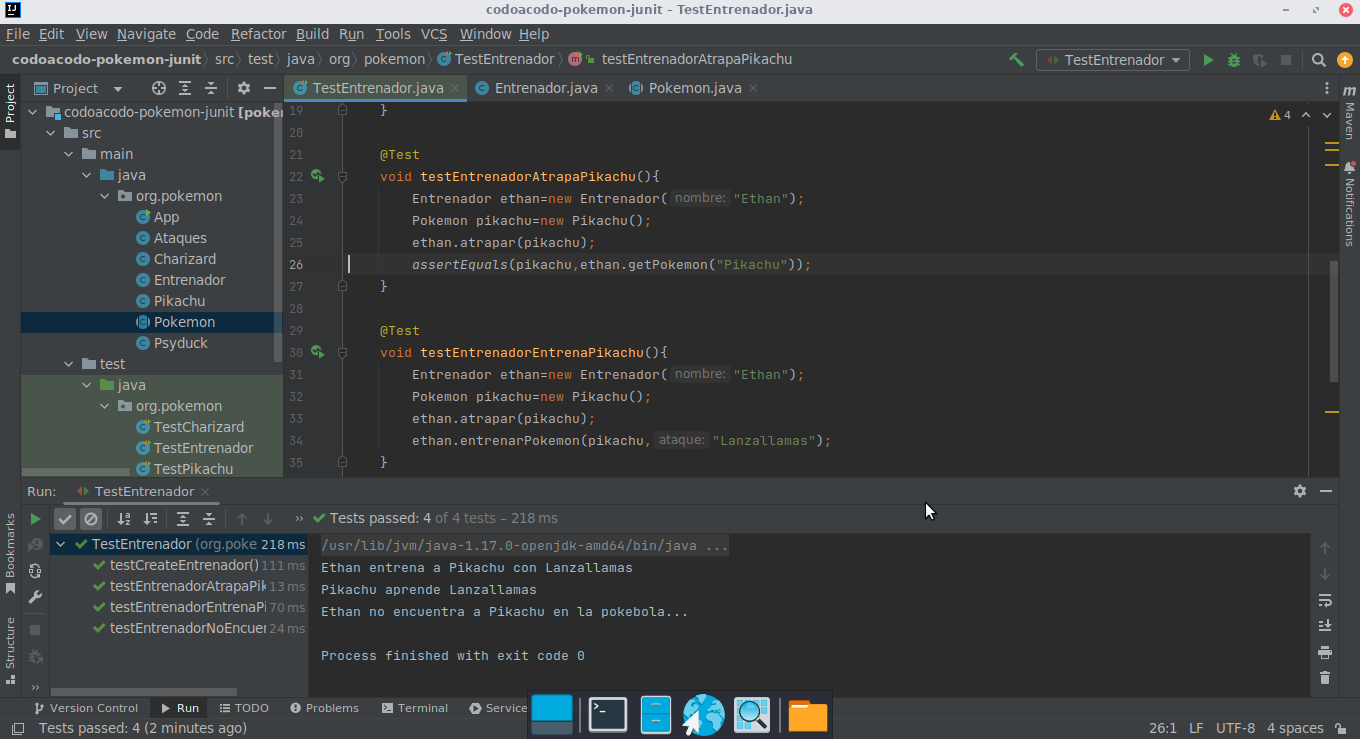
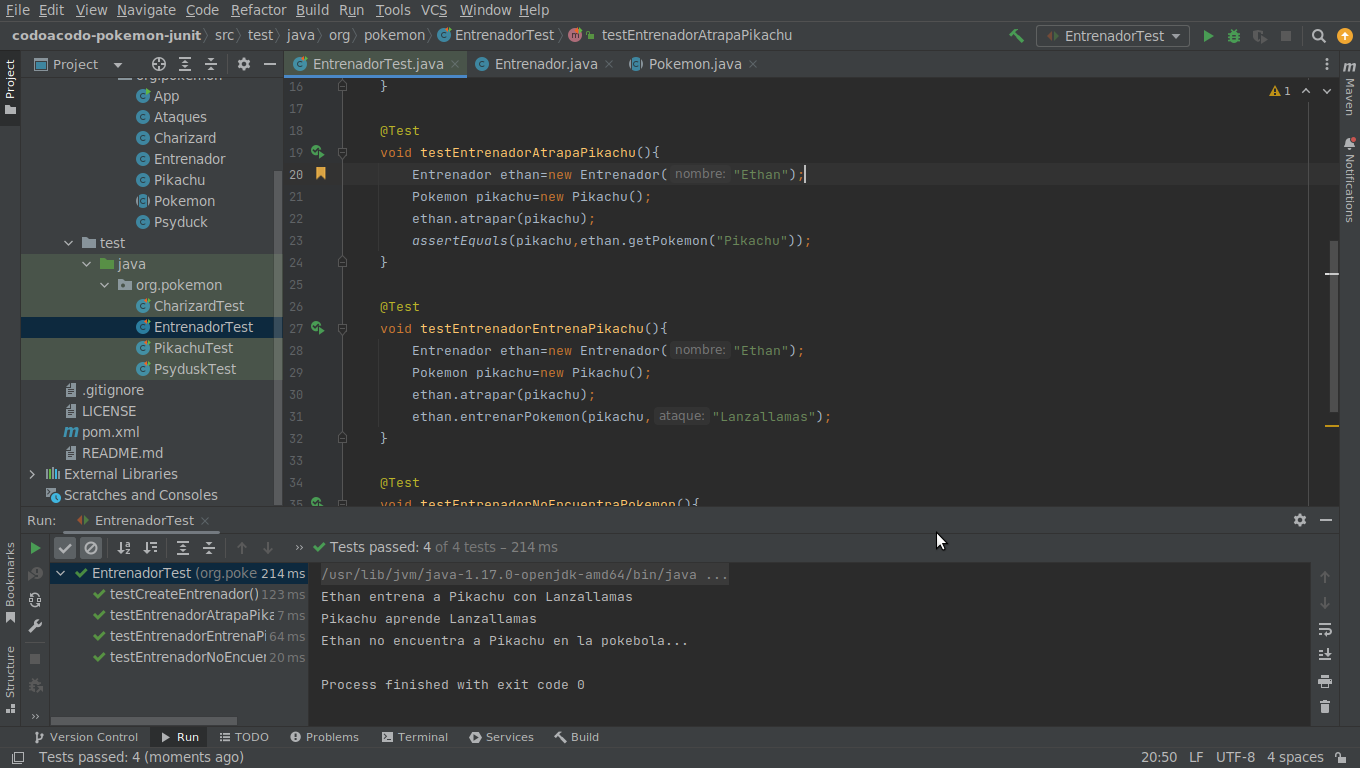
Prefijo Test cambiado a sufijo. Imagen acualizada

diff --git a/src/test/java/org/pokemon/EntrenadorTest.java b/src/test/java/org/pokemon/EntrenadorTest.java
@@ -1,15 +1,12 @@
 package org.pokemon;
 
-import org.junit.jupiter.api.MethodOrderer;
-import org.junit.jupiter.api.Order;
 import org.junit.jupiter.api.Test;
-import org.junit.jupiter.api.TestMethodOrder;
 
 import static org.junit.jupiter.api.Assertions.assertEquals;
 import static org.junit.jupiter.api.Assertions.assertNotNull;
 
 
-class TestEntrenador {
+class EntrenadorTest {
 
     @Test
     void testCreateEntrenador(){

diff --git a/src/test/java/org/pokemon/PikachuTest.java b/src/test/java/org/pokemon/PikachuTest.java
@@ -3,7 +3,7 @@ package org.pokemon;
 import org.junit.jupiter.api.Test;
 import static org.junit.jupiter.api.Assertions.*;
 
-public class TestPikachu {
+public class PikachuTest {
 
     @Test
     void testCrearPikachu(){

diff --git a/src/test/java/org/pokemon/PsyduskTest.java b/src/test/java/org/pokemon/PsyduskTest.java
@@ -4,7 +4,7 @@ import org.junit.jupiter.api.Test;
 
 import static org.junit.jupiter.api.Assertions.*;
 
-public class TestPsydusk {
+public class PsyduskTest {
 
     @Test
     public void testCrearPsydusk(){

diff --git a/src/test/java/org/pokemon/CharizardTest.java b/src/test/java/org/pokemon/CharizardTest.java
@@ -4,7 +4,7 @@ import org.junit.jupiter.api.Test;
 
 import static org.junit.jupiter.api.Assertions.*;
 
-public class TestCharizard {
+public class CharizardTest {
 
     @Test
     void testCrearCharizard(){
